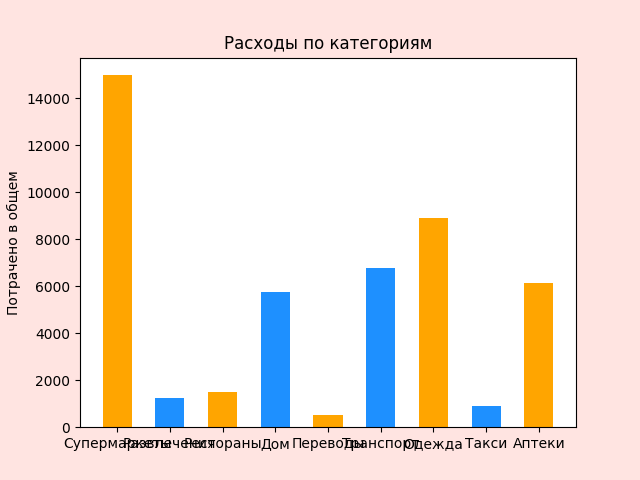
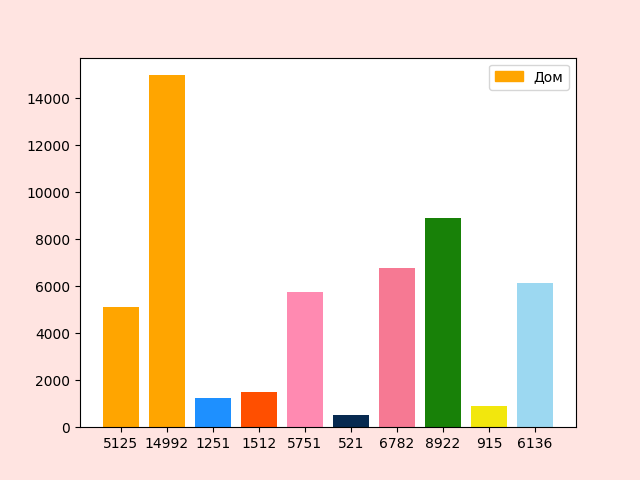
New diag

diff --git a/app/service.py b/app/service.py
@@ -137,6 +137,17 @@ def calculate_remaining_expenses_using_linreg(uid, categories):
 
 def create_diagram_1(uid=1, period=1):
     data = get_stat(uid, period)
+    colors = [
+        "#ffa500",
+        "#1E90FF",
+        "#ff4f00",
+        "#ff8ab1",
+        "#072A50",
+        "#F67993",
+        "#188108",
+        "#F2E70D",
+        "#9CD8F1",
+    ]
     if data:
         values = []
         labels = []
@@ -144,14 +155,14 @@ def create_diagram_1(uid=1, period=1):
         for item in data:
             labels.append(item[0])
             values.append(int(item[1]))
-
-        fig, ax = plt.subplots()
-
-        ax.bar(labels, values, width, label="Total", color=["#ffa500", "#1E90FF"])
-
-        ax.set_ylabel("Потрачено в общем")
-        ax.set_title("Расходы по категориям")
-
+        data = {}
+        for i, label in enumerate(labels):
+            data[label] = colors[i]
+        handles = [plt.Rectangle((0, 0), 1, 1, color=data[label]) for label in labels]
+        plt.bar(
+            list(map(str, values)), values, label="Total", color=list(data.values())
+        )
+        plt.legend(handles, labels)
         path = "./app/static/img/{0}.png".format(str(uid) + "-diag1")
         plt.savefig(path, facecolor="#FFE4E1")
         # plt.show()
